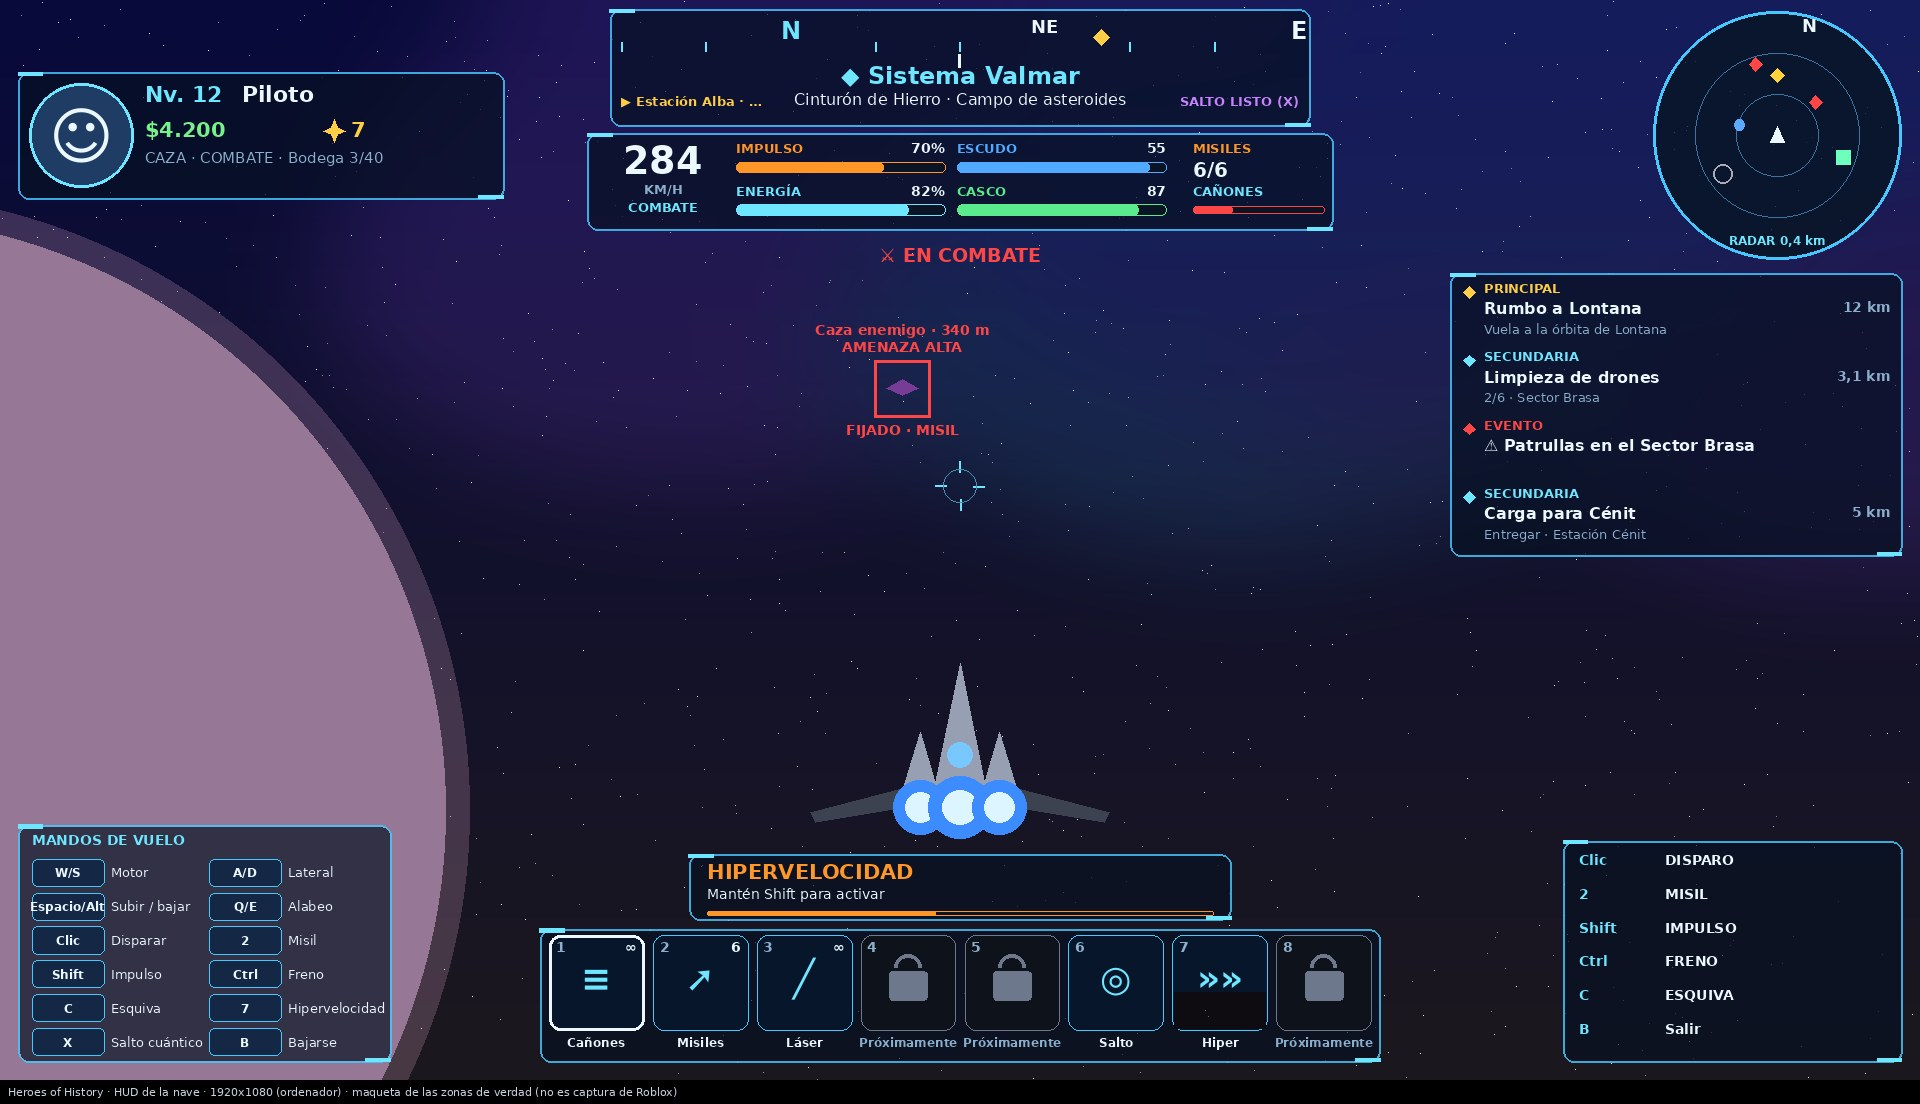
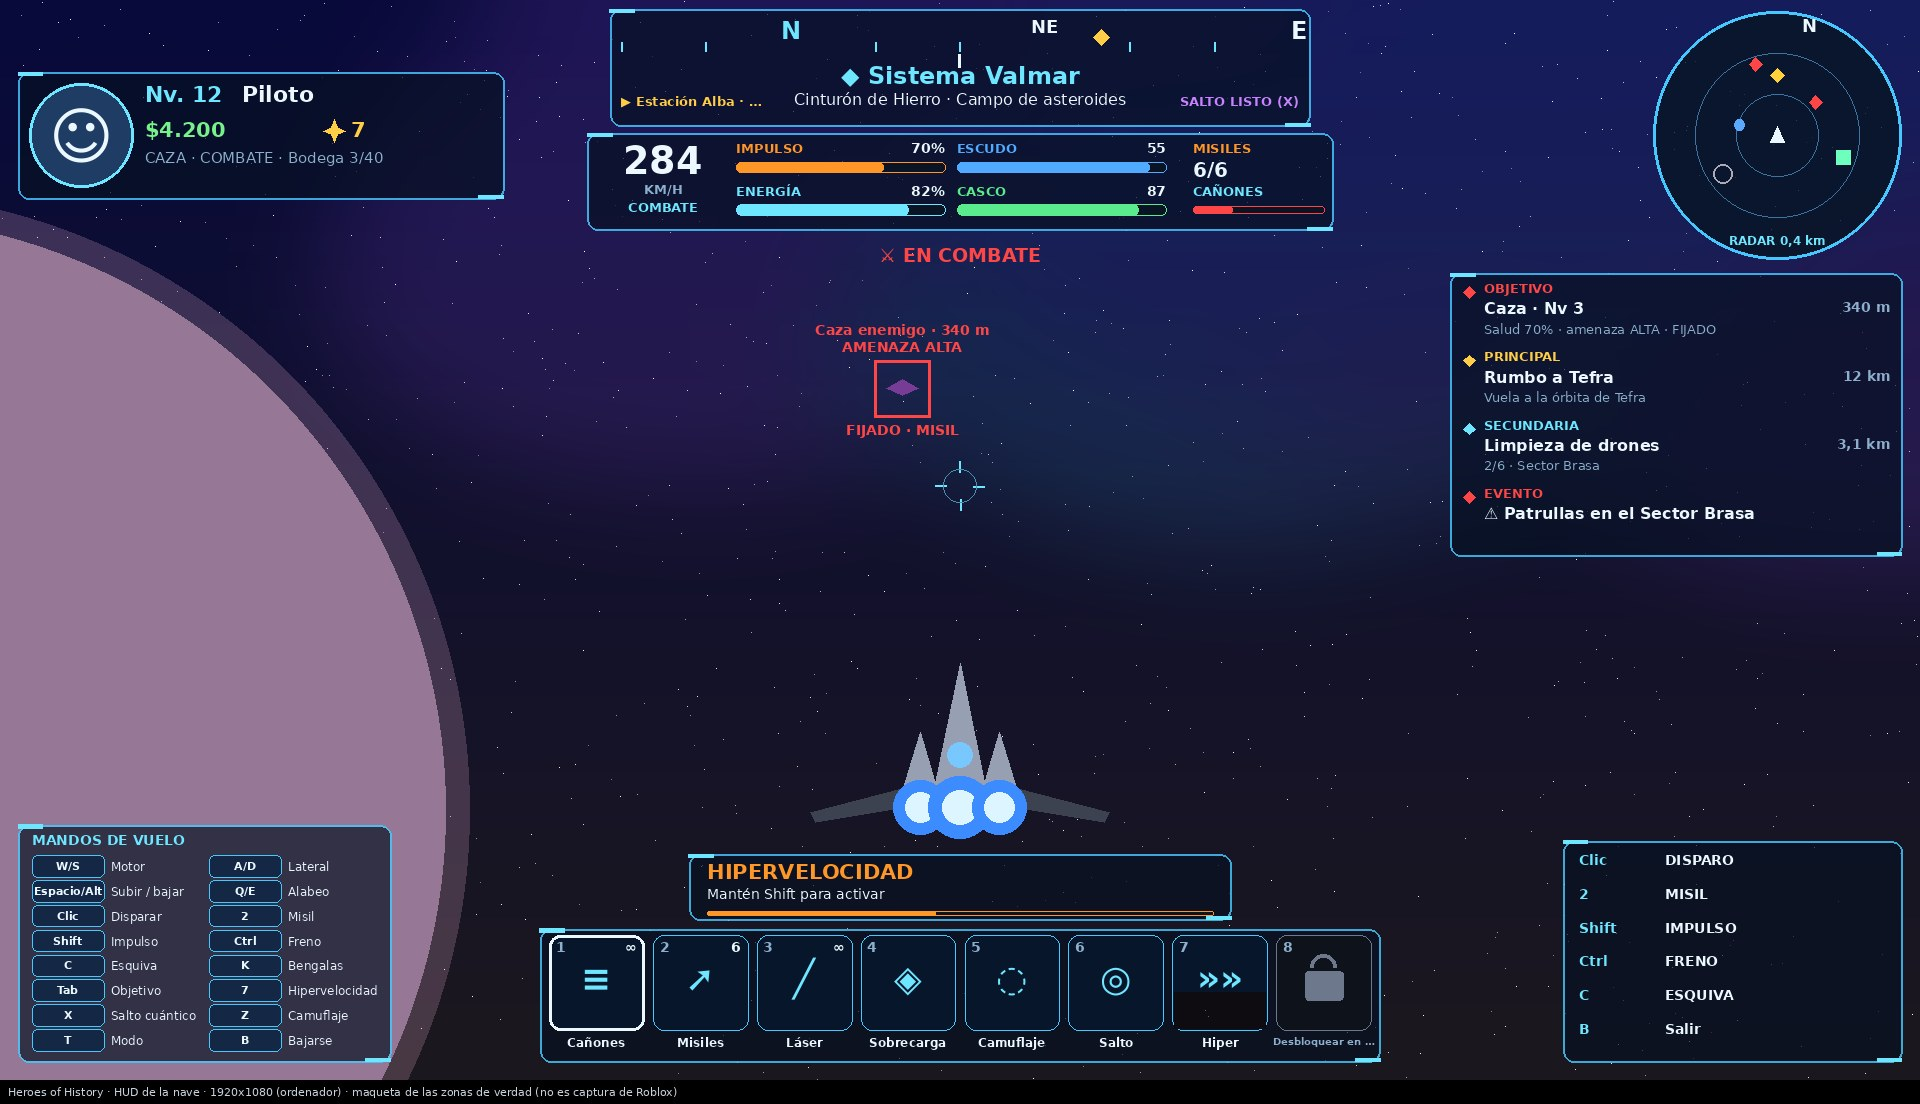
Espacio AAA fase 11: pruebas con varios pilotos, topes, documento y maquetas nuevas
- Pruebas de varios pilotos: los efectos solo llegan a los cercanos, el camuflaje de uno se ve en su
  nave y los enemigos no le ven de lejos mientras al otro sí, sobrecarga visible, un solo dron a la
  vez y tope de 6 misiles enemigos aunque haya 10 cazas.
- diseno.md: fases 7 a 11 (qué hay y dónde), teclas nuevas (K, Tab, 4, 5/Z, 8, T con tres modos),
  precios del taller, topes de rendimiento y red, lo que sigue bloqueado (dron hasta comprarlo) y la
  lista de comprobación a mano ampliada.
- Maquetas rehechas: ranuras 4 y 5 activas, la 8 «Desbloquear en estación», BENGALAS y OBJETIVO,
  fila OBJETIVO y las teclas nuevas.

Claude-Session: https://claude.ai/code/session_01NLHSc9vUgM3Lfn2jUL556r

diff --git a/roblox/scripts/espacio/hud_mockup.py b/roblox/scripts/espacio/hud_mockup.py
@@ -37,10 +37,13 @@ BUTTON_LABELS = {
     "SalirNave": ("Salir", (40, 60, 90)),
     "ValmarNave": ("VALMAR", (40, 90, 60)),
     "AccionNave": ("ATRACAR", (40, 110, 80)),
+    "BengalasNave": ("BENGALAS", (170, 110, 40)),
+    "ObjetivoNave": ("OBJETIVO", (150, 50, 60)),
 }
 
-SLOTS = [("Cañones", "∞"), ("Misiles", "6"), ("Láser", "∞"), ("Escudo", ""), ("Camuflaje", ""), ("Salto", ""), ("Hiper", ""), ("Dron", "")]
-LOCKED = {3, 4, 7}
+SLOTS = [("Cañones", "∞"), ("Misiles", "6"), ("Láser", "∞"), ("Sobrecarga", ""), ("Camuflaje", ""), ("Salto", ""), ("Hiper", ""), ("Dron", "")]
+LOCKED = {7}  # (el dron, hasta comprar uno en el taller de una estación)
+LOCKED_NOTE = "Desbloquear en estación"
 
 
 def font(size, bold=True):
@@ -235,7 +238,7 @@ def render(case, out_path):
     d.text((cx, y + h - 10 * k), "RADAR 0,4 km", font=font(11 * k), fill=CYAN, anchor="md")
     # E · misiones
     x, y, w, h = panel(layer, Z["E"], k)
-    mrows = [("PRINCIPAL", GOLD, "Rumbo a Tefra", "Vuela a la órbita de Tefra", "12 km"), ("SECUNDARIA", CYAN, "Limpieza de drones", "2/6 · Sector Brasa", "3,1 km"), ("EVENTO", RED, "⚠ Patrullas en el Sector Brasa", "", ""), ("SECUNDARIA", CYAN, "Carga para Cénit", "Entregar · Estación Cénit", "5 km")]
+    mrows = [("OBJETIVO", RED, "Caza · Nv 3", "Salud 70% · amenaza ALTA · FIJADO", "340 m"), ("PRINCIPAL", GOLD, "Rumbo a Tefra", "Vuela a la órbita de Tefra", "12 km"), ("SECUNDARIA", CYAN, "Limpieza de drones", "2/6 · Sector Brasa", "3,1 km"), ("EVENTO", RED, "⚠ Patrullas en el Sector Brasa", "", ""), ("SECUNDARIA", CYAN, "Carga para Cénit", "Entregar · Estación Cénit", "5 km")]
     n = 3 if touch else 4
     rh = (h - 8 * k) / n
     for i in range(n):
@@ -251,14 +254,15 @@ def render(case, out_path):
     if "G" in Z:
         x, y, w, h = panel(layer, Z["G"], k)
         d.text((x + 12 * k, y + 6 * k), "MANDOS DE VUELO", font=font(13 * k), fill=CYAN)
-        hints = [("W/S", "Motor"), ("A/D", "Lateral"), ("Espacio/Alt", "Subir / bajar"), ("Q/E", "Alabeo"), ("Clic", "Disparar"), ("2", "Misil"), ("Shift", "Impulso"), ("Ctrl", "Freno"), ("C", "Esquiva"), ("7", "Hipervelocidad"), ("X", "Salto cuántico"), ("B", "Bajarse")]
+        # (el orden de ShipKeys.HintOrder)
+        hints = [("W/S", "Motor"), ("A/D", "Lateral"), ("Espacio/Alt", "Subir / bajar"), ("Q/E", "Alabeo"), ("Clic", "Disparar"), ("2", "Misil"), ("Shift", "Impulso"), ("Ctrl", "Freno"), ("C", "Esquiva"), ("K", "Bengalas"), ("Tab", "Objetivo"), ("7", "Hipervelocidad"), ("X", "Salto cuántico"), ("Z", "Camuflaje"), ("T", "Modo"), ("B", "Bajarse")]
         cw = (w - 24 * k - 8 * k) / 2
         for i, (key, txt) in enumerate(hints):
             cx = x + 12 * k + (i % 2) * (cw + 8 * k)
-            cy = y + 28 * k + (i // 2) * 30 * k
-            d.rounded_rectangle([cx, cy + 2 * k, cx + 64 * k, cy + 26 * k], radius=5 * k, fill=(20, 40, 70), outline=EDGE)
-            d.text((cx + 32 * k, cy + 14 * k), key, font=font(11 * k), fill=WHITE, anchor="mm")
-            d.text((cx + 70 * k, cy + 14 * k), txt, font=font(12 * k, False), fill=WHITE, anchor="lm")
+            cy = y + 26 * k + (i // 2) * 22 * k
+            d.rounded_rectangle([cx, cy + 1 * k, cx + 64 * k, cy + 20 * k], radius=5 * k, fill=(20, 40, 70), outline=EDGE)
+            d.text((cx + 32 * k, cy + 10.5 * k), key, font=font(10 * k), fill=WHITE, anchor="mm")
+            d.text((cx + 70 * k, cy + 10.5 * k), txt, font=font(11 * k, False), fill=WHITE, anchor="lm")
     if "I" in Z:
         x, y, w, h = panel(layer, Z["I"], k)
         for i, (key, txt) in enumerate((("Clic", "DISPARO"), ("2", "MISIL"), ("Shift", "IMPULSO"), ("Ctrl", "FRENO"), ("C", "ESQUIVA"), ("B", "Salir"))):
@@ -276,7 +280,7 @@ def render(case, out_path):
         if locked:
             padlock(d, sx + sz / 2, sy + sz * 0.5, sz * 0.4, (110, 120, 140))
         else:
-            glyph = ["≡", "➚", "╱", "", "", "◎", "»»", ""][i]
+            glyph = ["≡", "➚", "╱", "◈", "◌", "◎", "»»", "✦"][i]
             d.text((sx + sz / 2, sy + sz * 0.45), glyph, font=font(sz * 0.38), fill=CYAN, anchor="mm")
         if not touch:
             d.text((sx + 6 * k, sy + 3 * k), str(i + 1), font=font(13 * k), fill=MUTED)
@@ -284,7 +288,11 @@ def render(case, out_path):
             d.text((sx + sz - 6 * k, sy + 3 * k), count, font=font(13 * k), fill=WHITE, anchor="ra")
         if i == 6:
             d.rectangle([sx + 2, sy + sz * 0.6, sx + sz - 2, sy + sz - 2], fill=(0, 0, 0, 120))
-        d.text((sx + sz / 2, sy + sz + 4 * k), "Próximamente" if locked else name, font=font(11 * k), fill=MUTED if locked else WHITE, anchor="ma")
+        if locked:
+            fl = font(9 * k)
+            d.text((sx + sz / 2, sy + sz + 4 * k), fit(d, LOCKED_NOTE, fl, sz + gap), font=fl, fill=MUTED, anchor="ma")
+        else:
+            d.text((sx + sz / 2, sy + sz + 4 * k), name, font=font(11 * k), fill=WHITE, anchor="ma")
     # Letrero (hipervelocidad)
     x, y, w, h = panel(layer, Z["Prompt"], k)
     d.text((x + 16 * k, y + 4 * k), "HIPERVELOCIDAD", font=font(19 * k), fill=ORANGE)
@@ -295,7 +303,7 @@ def render(case, out_path):
         label, col = BUTTON_LABELS.get(bid, (bid, (40, 60, 90)))
         bx, by, bw, bh = [v * k for v in r]
         d.ellipse([bx, by, bx + bw, by + bh], fill=col + (200,), outline=CYAN, width=max(1, int(3 * k)))
-        d.text((bx + bw / 2, by + bh / 2), label, font=font(min(bw, bh) * 0.17), fill=WHITE, anchor="mm")
+        d.text((bx + bw / 2, by + bh / 2), label, font=font(min(min(bw, bh) * 0.17, bw * 0.8 / (0.68 * len(label)))), fill=WHITE, anchor="mm")
     st = case.get("Stick")
     if st:
         sx, sy, sw, sh = [v * k for v in st]

diff --git a/roblox/docs/espacio-aaa/diseno.md b/roblox/docs/espacio-aaa/diseno.md
@@ -1,13 +1,13 @@
-# Espacio «AAA»: auditoría y diseño técnico (fases 1 a 6)
+# Espacio «AAA»: auditoría y diseño técnico (fases 1 a 11)
 
 Encargo: `encargo.md`. Referencia visual: `referencia-hud.png` (en el juego **nunca** salen los nombres de la
 imagen ni de su sistema: el sistema es el **Sistema Valmar**, con los planetas Tefra, Siroco, Tálasa, Nivalis,
 Umbría, Miasma y Vértice y las estaciones Alba y Cénit).
 
-Esta tanda hace las fases **1 a 6** (auditoría, vuelo, HUD y mandos, impulso/freno/esquiva,
-hipervelocidad y salto cuántico). Las fases 7 a 11 (más combate, camuflaje, drones, integración y pulido)
-van en la siguiente: sus huecos ya salen en el HUD, **bloqueados** («Próximamente»), nunca como botones
-que no hacen nada.
+La primera tanda hizo las fases **1 a 6** (auditoría, vuelo, HUD y mandos, impulso/freno/esquiva,
+hipervelocidad y salto cuántico); la segunda, las fases **7 a 11** (combate, camuflaje, sobrecarga del
+escudo, modos, drones, taller y guardado, efectos y pulido: ver §10). Lo que no funciona del todo sale en
+el HUD **bloqueado** y dice qué falta, nunca como un botón que no hace nada.
 
 ## 1. Lo que ya existía (auditoría)
 
@@ -67,8 +67,8 @@ Un HUD nuevo para la nave (`UI/AirCombatHud`, mismo nombre y API; las cuentas pu
 | E | Misiones: principal (historia), secundarias del tablón con progreso y distancia, eventos | `Hud.objective()` + «Nav» |
 | F | Mira, fijación, distancia y amenaza del blanco, marcas de impacto, flechas en el borde | como antes, ampliado |
 | G | Palanca táctil (solo táctil); en el ordenador, una tarjeta pequeña de teclas; con mando, sus botones | `UI/FlightStick` |
-| H | Barra de 8 ranuras: cañones, misiles, láser, escudo especial 🔒, camuflaje 🔒, salto cuántico, hipervelocidad, dron 🔒 | estado del servidor |
-| I | Botones grandes (táctil): DISPARO (el mayor), MISIL, IMPULSO, FRENO, ESQUIVA | `UI/ShipButtons` en `HudLayout.Fly` |
+| H | Barra de 8 ranuras: cañones, misiles, láser, sobrecarga del escudo, camuflaje, salto cuántico, hipervelocidad, dron (🔒 «Desbloquear en estación» hasta comprar uno) | estado del servidor |
+| I | Botones grandes (táctil): DISPARO (el mayor), MISIL, IMPULSO, FRENO, ESQUIVA, BENGALAS, OBJETIVO | `UI/ShipButtons` en `HudLayout.Fly` |
 | J | Avisos solo cuando hacen falta: modo combate, daño, proximidad, motor, hipervelocidad, salto | eventos |
 
 - Panel oscuro semitransparente azul/negro con bordes cian, impulso en naranja y lo hostil en rojo.
@@ -94,10 +94,14 @@ la nave no coge ninguna tecla):
 | Freno / freno de emergencia | Ctrl / doble Ctrl | LT / LT a fondo | FRENO / mantenerlo |
 | Esquiva | C (con A/D/Espacio/Alt) | A (según el stick) | ESQUIVA |
 | Salto cuántico | X (abre el selector) | Select | ranura 6 |
-| Camuflaje | Z (🔒 próximamente) | — | ranura 5 🔒 |
-| Recargar | R | cruceta ← | ranura del arma |
-| Cañones / láser | 1 / 3 | cruceta → | ranuras 1 / 3 |
-| Modo combate/crucero | T | — | chip del HUD |
+| Sobrecarga del escudo | 4 | — | ranura 4 |
+| Camuflaje | Z (o 5) | — | ranura 5 |
+| Dron | 8 (otra vez: recogerlo) | — | ranura 8 |
+| Bengalas (contra misiles) | K | cruceta ← | BENGALAS |
+| Cambiar de objetivo | Tab | cruceta → | OBJETIVO |
+| Recargar | R | — | ranura del arma |
+| Cañones / láser | 1 / 3 | — | ranuras 1 / 3 |
+| Modo combate / crucero / exploración | T | — | chip del HUD (se toca) |
 | Asistencia de vuelo | Y | — | chip del HUD |
 | Interactuar (atracar, viajar) | F (o G) | X | ATRACAR/VIAJAR |
 | Volver a Valmar | V | Y | VALMAR |
@@ -204,13 +208,9 @@ a ritmo limitado).
 Datos: `data.Space.Found` (nuevo, con valor por defecto: las partidas viejas no pierden nada). La energía,
 las recargas y el estado de las habilidades viven en la sesión del servidor (no se guardan).
 
-### Bloqueado para la siguiente tanda (fases 7 a 11)
+### Lo que quedaba bloqueado tras la primera tanda
 
-En la barra salen con candado y «Próximamente» (y Z / 4 / 8 dicen «próximamente», sin hacer nada):
-**escudo especial (4)**, **camuflaje (5, Z)** y **drones (8)**. También quedan para después: más armas y
-enemigos y misiles que se puedan esquivar mejor (fase 7), integración con inventario y mejoras de nave con
-Chispas (fase 9) y el pulido final (sonidos propios de cada habilidad, más efectos; ahora se usan los
-`Nave*` de siempre).
+Escudo especial (4), camuflaje (5) y drones (8) salían con candado: los hace la segunda tanda (§10).
 
 ## 7. Imágenes
 
@@ -218,6 +218,9 @@ Maquetas dibujadas con las zonas de verdad (`scripts/espacio/hud-layout-dump.lua
 `scripts/espacio/hud_mockup.py`; **no son capturas de Roblox**: el contenido es de ejemplo y en el móvil
 el juego además agranda los textos) y la nave con sus piezas de verdad (`scripts/espacio/ship-dump.luau`
 + `ship_preview.py`):
+
+(rehechas en la fase 11: ranuras 4 y 5 activas, la 8 «Desbloquear en estación», BENGALAS y OBJETIVO,
+la fila del objetivo y las teclas nuevas)
 
 ![HUD en el ordenador (1920x1080)](hud-1920x1080.jpg)
 ![HUD en el móvil (932x430)](hud-932x430.jpg)
@@ -228,8 +231,10 @@ el juego además agranda los textos) y la nave con sus piezas de verdad (`script
 ## 8. Pruebas
 
 ```
-lune run scripts/test-espacio-aaa.luau   # fases 2-6: vuelo, teclas, HUD (zonas en 4 pantallas, brújula, radar,
-                                         # ranuras, valores del servidor), esquiva, hipervelocidad, salto
+lune run scripts/test-espacio-aaa.luau   # fases 2-11: vuelo, teclas, HUD (zonas en 4 pantallas, brújula, radar,
+                                         # ranuras, valores del servidor), esquiva, hipervelocidad, salto,
+                                         # fijación y misiles enemigos, bengalas, sobrecarga, camuflaje, modos,
+                                         # escáner, drones, taller y guardado, varios pilotos y topes
 lune run scripts/test-aircombat.luau     # (la nave nueva: tres motores)
 lune run scripts/test-space.luau ; lune run scripts/test-planetas.luau ; lune run scripts/test-flight.luau
 lune run scripts/test-compile.luau ; lune run scripts/test-clientboot.luau ; lune run scripts/test-serverboot.luau
@@ -262,3 +267,48 @@ lune run scripts/test-hud.luau
 9. **Rendimiento en el móvil** (gráficos Bajo): rayas de la hipervelocidad y portal sin tirones.
 10. **La nave nueva** en el puerto espacial, en el espacio y en Tefra (tren de aterrizaje, piloto dentro
     de la cabina, tres motores que brillan).
+
+## 10. Segunda tanda (fases 7 a 11)
+
+| Fase | Hecho | Dónde |
+|---|---|---|
+| 7 · Combate | Fijación con reglas (alcance, ángulo y línea de visión: un asteroide la corta), cambiar de objetivo (Tab / cruceta → / OBJETIVO, por ángulo), fila OBJETIVO en el HUD (tipo, nivel, salud, distancia), misiles de los cazas enemigos con las mismas reglas que buscan tu nave, aviso de misil con su dirección y pitido, bengalas (K: 4 cargas que se reponen; el misil va al señuelo), la esquiva hace fallar. | `ShipCombat`, `Lock`, `AirCombatService` (`stepEnemyMissiles`), `ShipHudClient` |
+| 8 · Habilidades | Sobrecarga del escudo (4: +60 % de escudo 6 s y luego se recalienta), camuflaje (5/Z: gasta energía, máx. 12 s, disparar o lanzar lo rompe; los enemigos solo te ven a menos de 300 y los demás pilotos te pierden en el radar), modos combate / crucero / exploración (T: exploración = radar 6000, pulso del escáner que descubre puntos de interés, sin misiles y armas a media cadencia), drones (8: explorador, defensa, reparación y combate; uno a la vez, con vida y tiempo; los pueden destruir). | `ShipCombat`, `ShipSystems`, `EnemyAI.sees`, `AirCombatFx` |
+| 9 · Taller y guardado | «🛠 Taller» en las estaciones: blindaje, baterías y lanzabengalas por niveles, y desbloquear drones, con dinero de Valmar y ✨ Chispas (nada de Robux; no da ventaja de pago). Se guarda en `data.Space.Upgrades`, `Drones` y `DroneKind` (partidas viejas: valores por defecto); los puntos que descubre el escáner van a `Found` (destinos del salto). | `SpaceService` (`workshop`, `buyUpgrade`, `buyDrone`, `loadoutFor`, `scanFor`), `DataService` |
+| 10 · Efectos | Cada habilidad con su efecto y sonido: bengalas que caen y brillan, burbuja de sobrecarga, nave que se desvanece y brillo al camuflarse, pulso del escáner, misiles enemigos rojos con estela, dron con su color, distorsión de la imagen en hipervelocidad (azul) y al cargar el salto (violeta). Todo dentro de `FxBudget` (en gráficos Bajo, sin desenfoque ni luces de más). | `AirCombatFx`, `AirCombatClient` |
+| 11 · Pulido | Topes (abajo), pruebas con varios pilotos, este documento y las maquetas nuevas. | `test-espacio-aaa` |
+
+**Precios del taller** (`ShipCombat.Upgrades` y `ShipCombat.Drones`): blindaje +20 de casco por nivel
+(3 niveles), baterías +15 de energía (3), lanzabengalas +1 bengala (2); el primer nivel cuesta 800 / 700 /
+500 $ y 4 / 4 / 3 ✨ (sube con el nivel). Drones: explorador 300 $ + 6 ✨, defensa 600 $ + 10 ✨, reparación
+700 $ + 12 ✨, combate 900 $ + 15 ✨.
+
+**Rendimiento y red (topes)**:
+- Misiles enemigos: como mucho 6 a la vez por piloto, aunque haya muchos cazas (probado con 10).
+- Un dron por piloto; las bengalas tienen cargas y recarga corta; el escáner, su ritmo (cada 4 s).
+- Los efectos de las habilidades solo se envían a los pilotos a menos de 2500 studs (`FxRadius`).
+- Las rayas de la hipervelocidad y los disparos usan piezas reutilizadas; el HUD a ritmo limitado (panel
+  y radar 10/s, estados de las demás naves 5/s); desenfoque y luces solo con gráficos altos.
+- El servidor manda en todo: energía, recargas, fijación de los misiles (línea de visión), cadencia en
+  exploración, camuflaje y daños; el cliente solo pide.
+
+**Sigue bloqueado**: la ranura 8 hasta comprar un dron en el taller de una estación («Desbloquear en
+estación»). No hay más candados en la nave.
+
+### Comprobar a mano (segunda tanda)
+
+11. **Misiles enemigos**: que un caza te lance uno, el aviso con la flecha y el pitido; K suelta bengalas
+    y el misil se va tras ellas; esquivar en el último momento también funciona.
+12. **Objetivo**: Tab (cruceta →, OBJETIVO) cambia de blanco; la fila OBJETIVO enseña tipo, nivel, salud
+    y distancia; detrás de un asteroide no se fija.
+13. **Sobrecarga (4)**: la burbuja se ve y el escudo pasa de su máximo; luego no regenera un rato.
+14. **Camuflaje (5/Z)**: tú te ves a medias y otro jugador casi no te ve ni te tiene en el radar (salvo muy
+    cerca); disparar lo rompe; los enemigos te pierden de lejos.
+15. **Modos (T o tocar el chip)**: exploración amplía el radar, escanea solo y descubre campos (salen en el
+    selector del salto); no deja lanzar misiles.
+16. **Taller**: comprar blindaje, baterías, lanzabengalas y un dron con dinero y Chispas; salir, volver a
+    entrar (guardado) y que la nave salga con todo. Con poco dinero o Chispas, que no cobre.
+17. **Drones (8)**: cada tipo hace lo suyo (escanea, para misiles, repara, dispara); otra vez 8 lo recoge;
+    lo pueden destruir; otro jugador lo ve.
+18. **Efectos**: distorsión en hipervelocidad y al cargar el salto; en gráficos Bajo, sin tirones.
+19. **Varios jugadores**: dos en la misma zona ven los efectos del otro; uno muy lejos no recibe nada.
